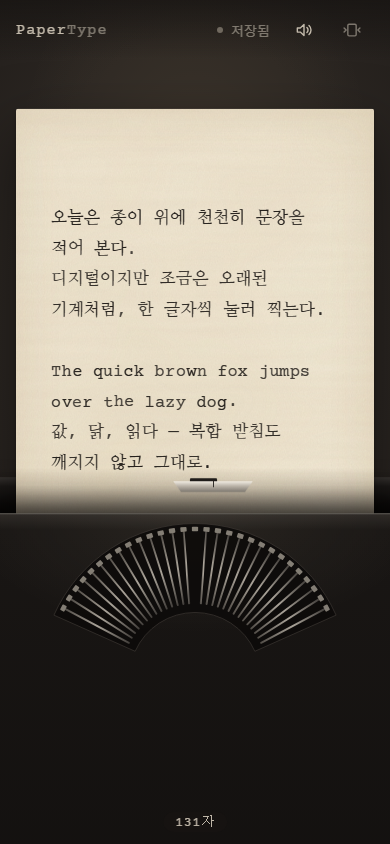
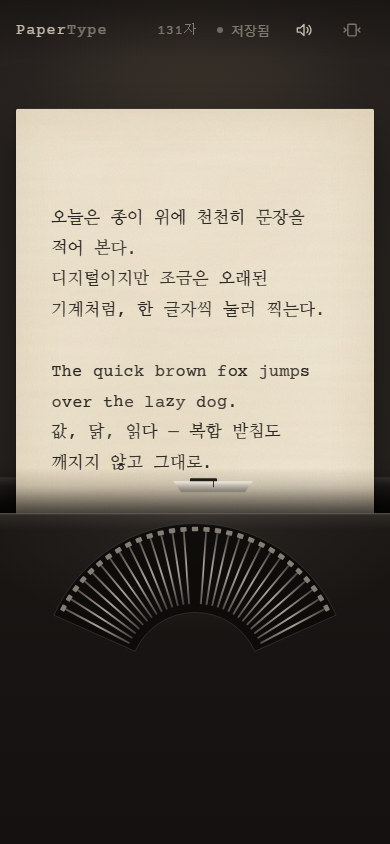
fix: move the character count to the top bar
With a virtual keyboard open the bottom edge of the viewport is the strike
point, so the bottom-centred count covered the card guide.

diff --git a/src/features/writer/StatusBar.tsx b/src/features/writer/StatusBar.tsx
@@ -11,6 +11,7 @@ type Props = {
   reduceMotion: boolean;
   systemReducedMotion: boolean;
   onToggleMotion: () => void;
+  charCount: number;
 };
 
 const LABEL: Record<SaveState, string> = {
@@ -36,6 +37,8 @@ export function StatusBar(props: Props) {
         Paper<span>Type</span>
       </div>
       <div className="topbar-right">
+        {/* Up here rather than at the bottom: with a virtual keyboard open the bottom edge is the strike point. */}
+        <span className="char-count">{props.charCount.toLocaleString('ko-KR')}자</span>
         <div className={`save save-${saveState}`} role="status" aria-live="polite">
           <span className="save-dot" aria-hidden="true" />
           <span className="save-label">{LABEL[saveState]}</span>

diff --git a/src/features/writer/Writer.tsx b/src/features/writer/Writer.tsx
@@ -605,10 +605,8 @@ function WriterSurface({ note: initialNote, text: initialText, recovered, prefs:
         reduceMotion={prefs.reduceMotion}
         systemReducedMotion={systemReducedMotion}
         onToggleMotion={() => updatePrefs({ reduceMotion: !prefs.reduceMotion })}
+        charCount={charCount}
       />
-      <div className="char-count" aria-live="off">
-        {charCount.toLocaleString('ko-KR')}자
-      </div>
       {perf && (
         <div className="perf-hud" aria-hidden="true">
           {perf.fps} fps · input→frame {perf.inputLatencyMs ?? '–'} ms · long tasks {perf.longTasks}

diff --git a/src/styles.css b/src/styles.css
@@ -493,19 +493,12 @@ body {
 }
 
 .char-count {
-  position: absolute;
-  left: 50%;
-  bottom: max(var(--space-3), env(safe-area-inset-bottom));
-  transform: translateX(-50%);
-  padding: 2px var(--space-3);
-  border-radius: 999px;
-  background: rgba(23, 20, 18, 0.55);
+  padding: 0 var(--space-2);
   font-family: 'Courier Prime', serif;
   font-size: 13px;
   letter-spacing: 0.06em;
-  color: var(--ui-text);
-  pointer-events: none;
-  z-index: 6;
+  color: var(--ui-text-dim);
+  white-space: nowrap;
 }
 
 .perf-hud {

diff --git a/docs/02_UX_UI_SPEC.md b/docs/02_UX_UI_SPEC.md
@@ -62,6 +62,8 @@ App
 └─────────────────────────────────┘
 ```
 
+> 구현 메모(2026-10-07): 글자 수는 상단 바의 저장 상태 옆에 둔다. 모바일에서 가상 키보드가 열리면 화면 아래 가장자리가 곧 타점이라, 하단 표시가 카드 가이드를 가렸다.
+
 ## 5. 타점 모델
 **타점(strike line)** 은 화면에 고정된 가로 위치·세로 위치다. 현재 줄은 항상 타점 높이에 오고, 종이가 위로 밀려 올라간다.
 
